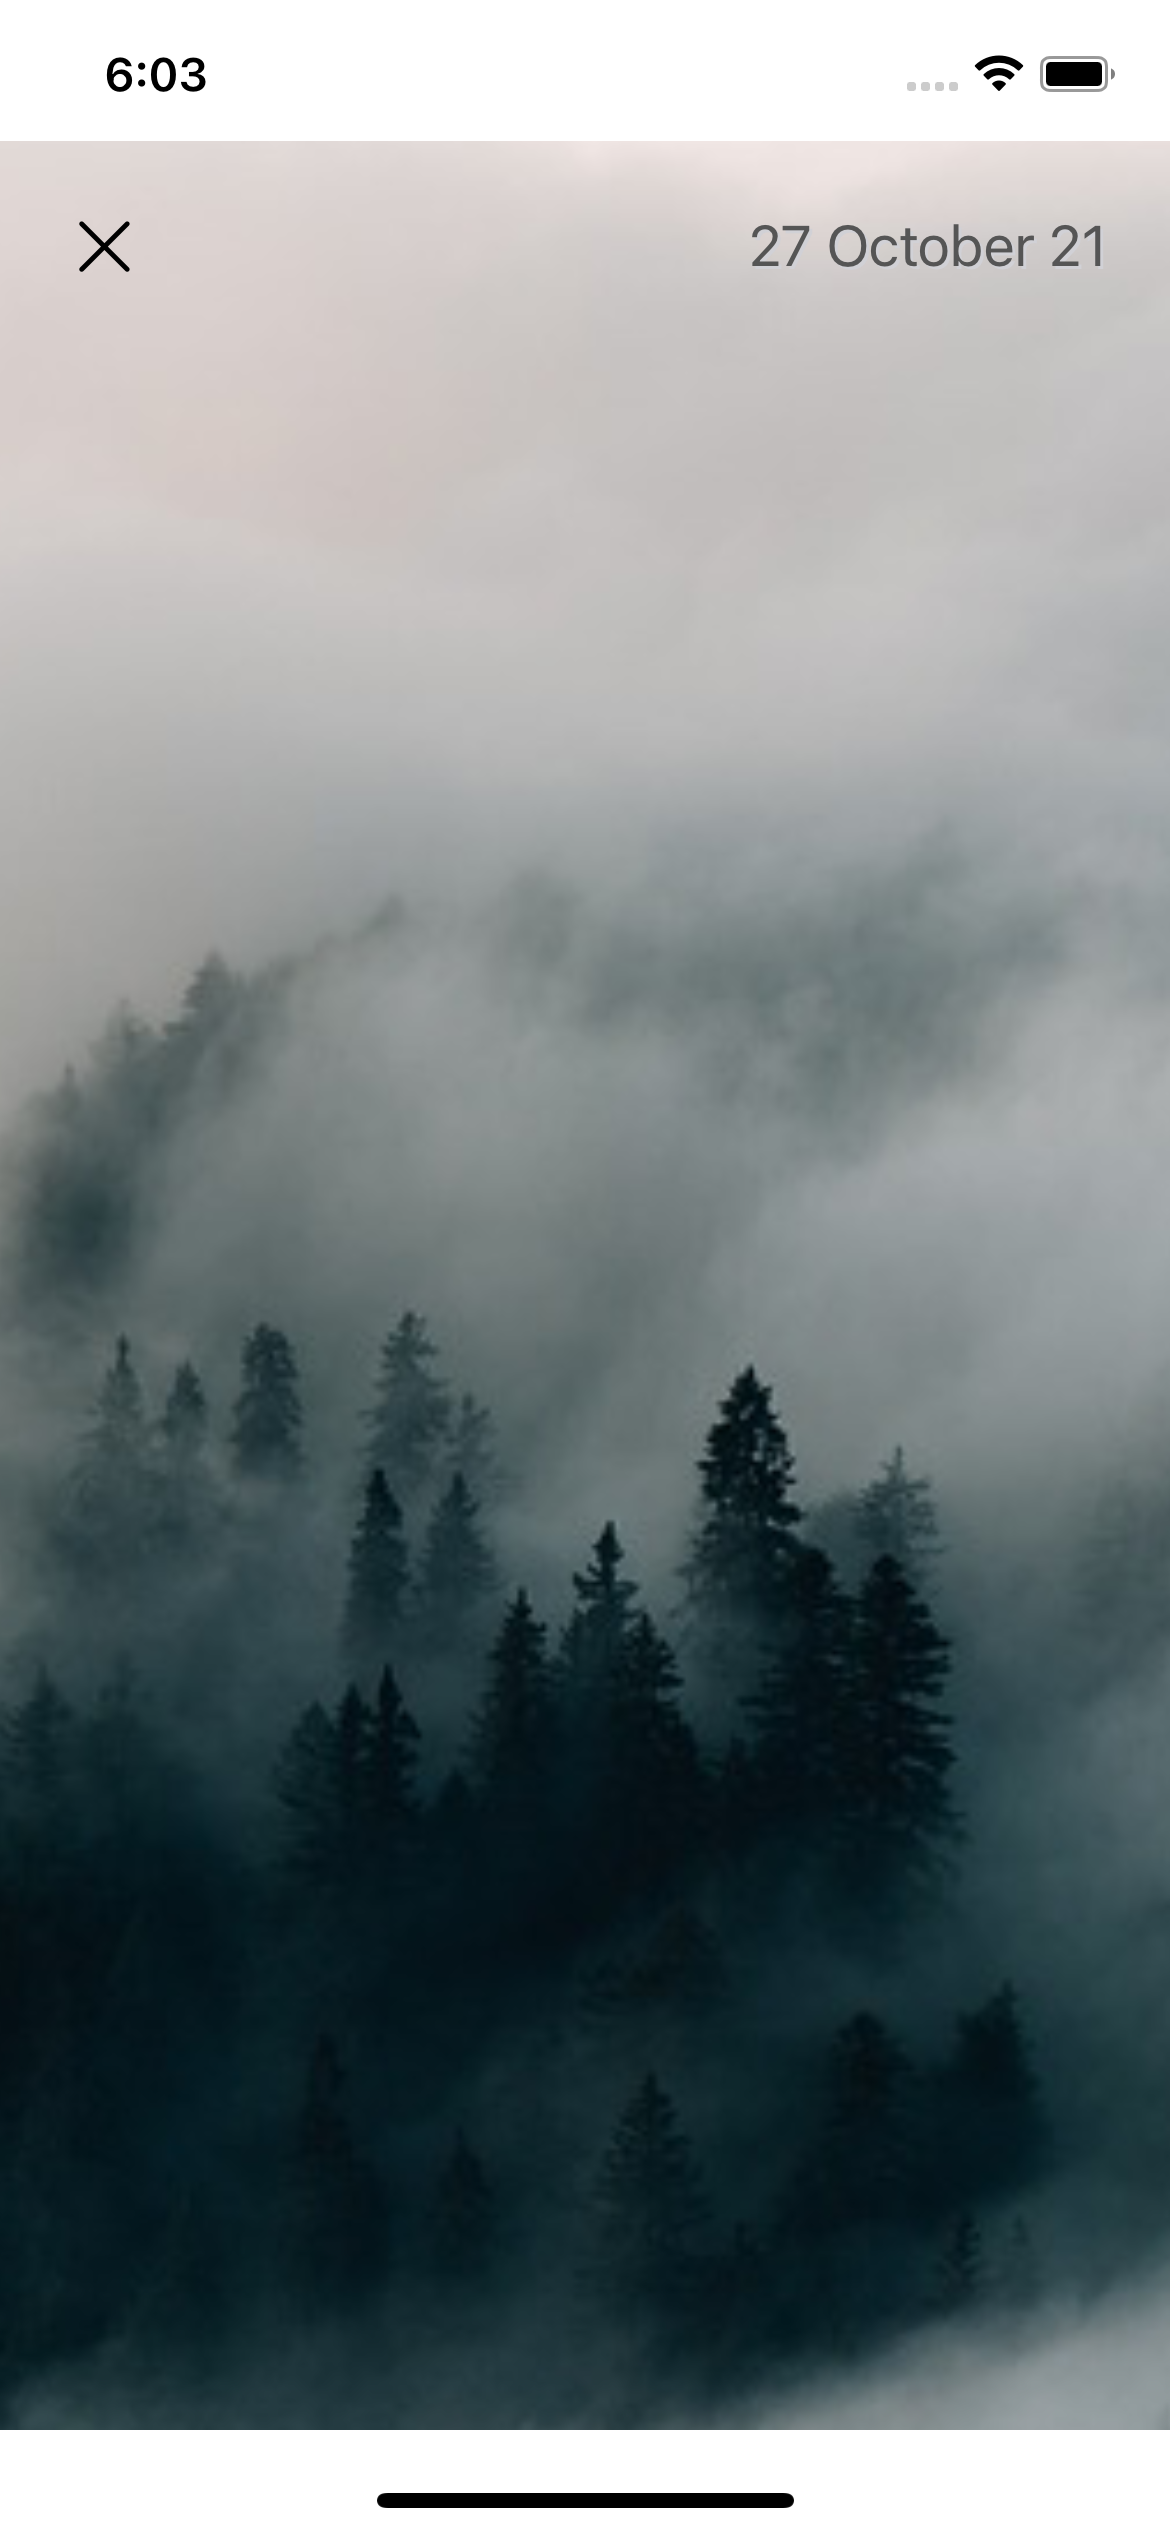
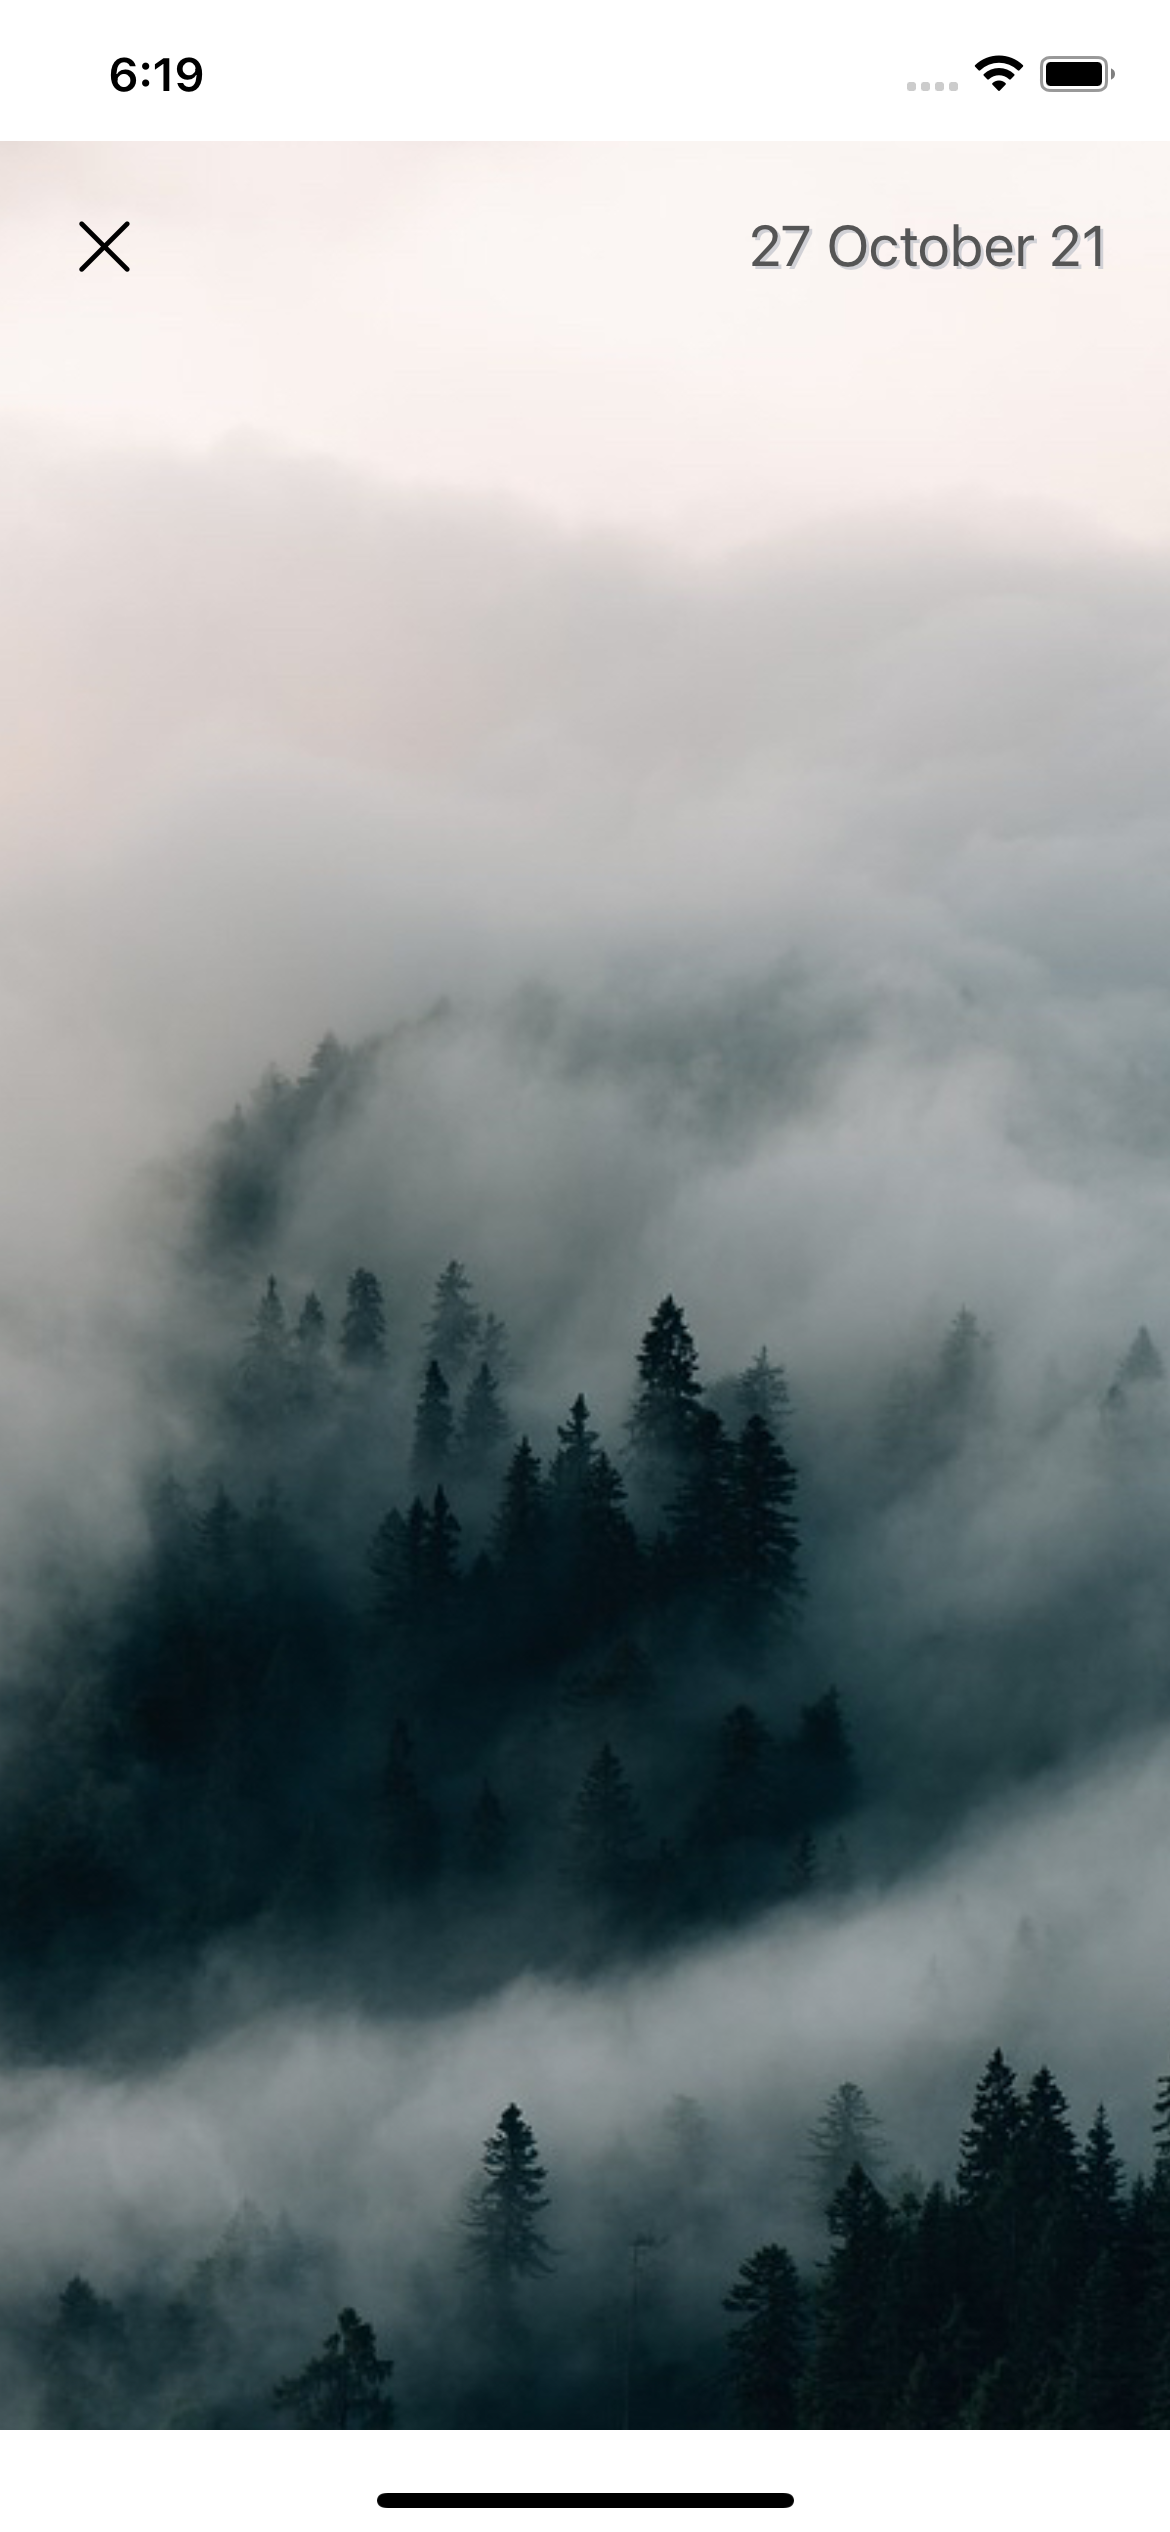
New screenshot
Zoom screenshot

diff --git a/README.md b/README.md
@@ -1,2 +1,20 @@
 # PhotoGalleryTestApp
- 
+
+### Основной экран изображений
+<img src="https://github.com/JimWest93/PhotoGalleryTestApp/blob/main/Screenshots/main.png?raw=true" alt="Drawing" style="width: 300px;"/>
+
+### Экран полноразмерного изображения.
+Реализован зум и отображение даты загрузки изображения в первый раз.
+<table><tr>
+<td> <img src="https://github.com/JimWest93/PhotoGalleryTestApp/blob/main/Screenshots/fulscreen.png?raw=true" alt="Drawing" style="width: 300px;"/> </td>
+<td> <img src="https://github.com/JimWest93/PhotoGalleryTestApp/blob/main/Screenshots/zoom.png?raw=true" alt="Drawing" style="width: 300px;"/> </td>
+</tr></table>
+
+### Алерты ошибок.
+Алерт отсутствия подключения к интернету при попытке загрузить новую партию изображений. Алерт загрузки полноразмерного изображения если изображение отсутствует в кэше.
+<table><tr>
+<td> <img src="https://github.com/JimWest93/PhotoGalleryTestApp/blob/main/Screenshots/networkerror.png?raw=true" alt="Drawing" style="width: 300px;"/> </td>
+<td> <img src="https://github.com/JimWest93/PhotoGalleryTestApp/blob/main/Screenshots/loaderror.png?raw=true" alt="Drawing" style="width: 300px;"/> </td>
+</tr></table>
+
+###Для загрузки и кеширования изображений использовался Kingfisher.
